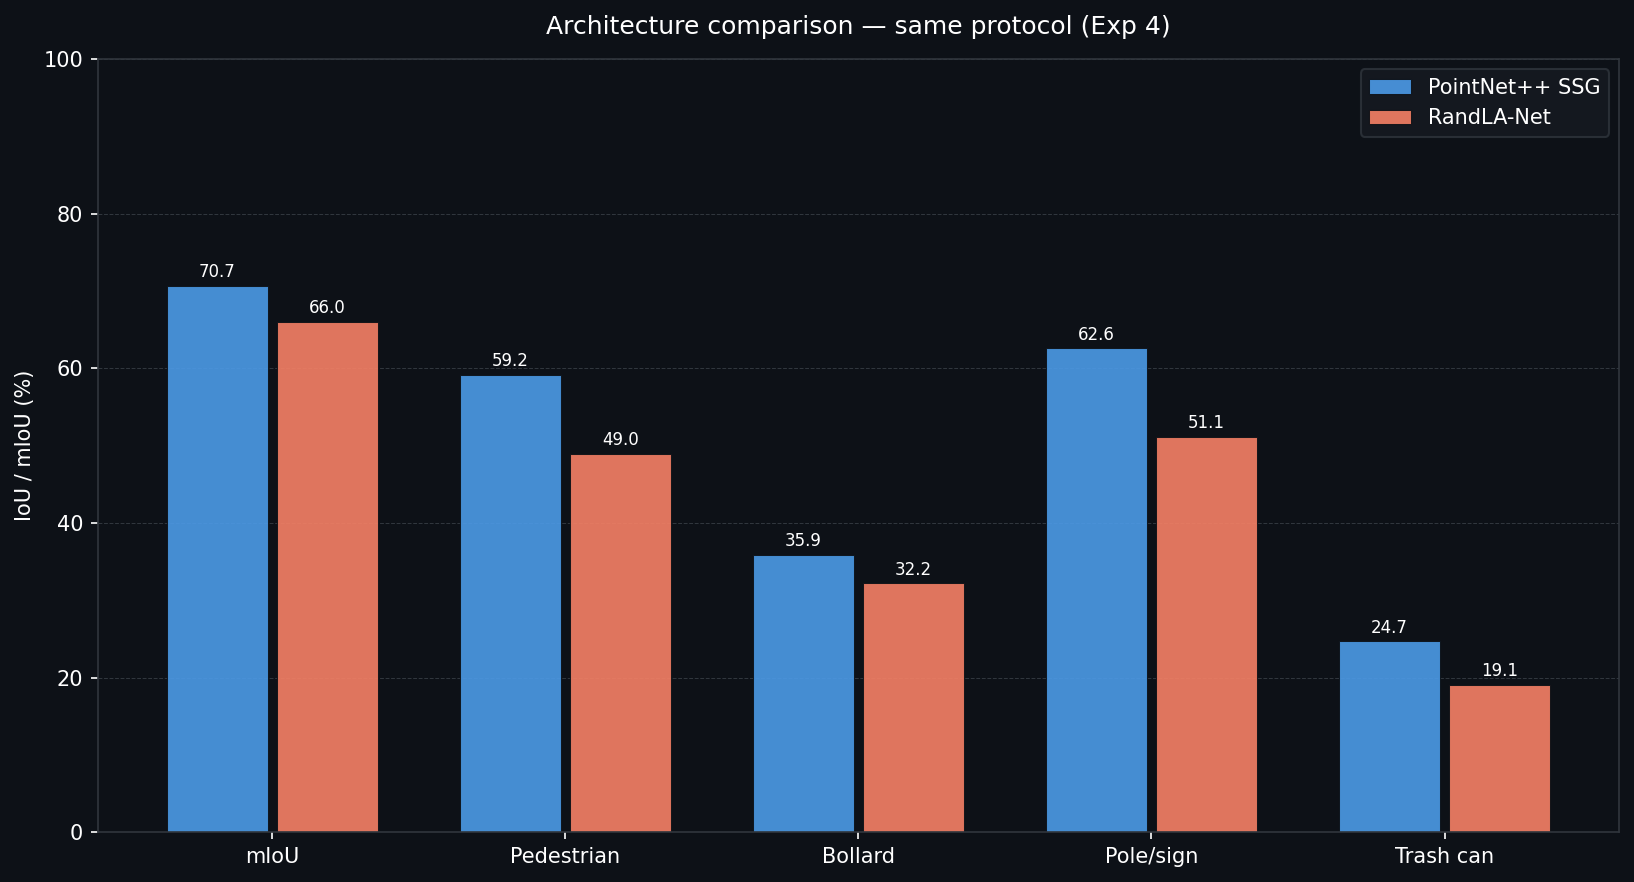
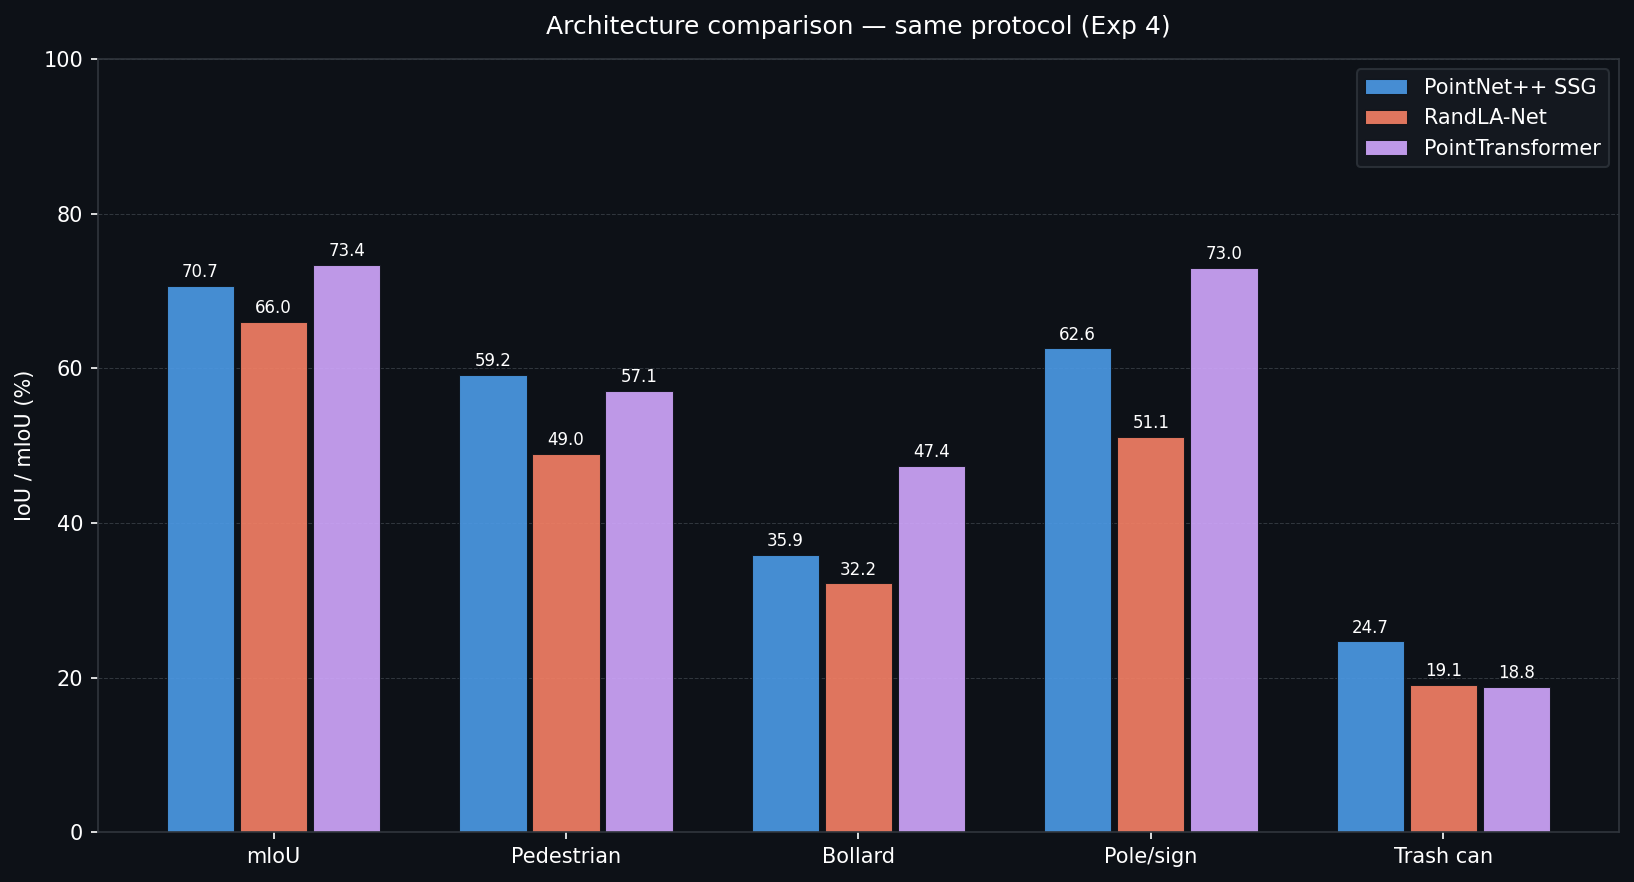
fix: add PointTransformer to default experiments in plot_architecture_comparison.py

diff --git a/scripts/plot_architecture_comparison.py b/scripts/plot_architecture_comparison.py
@@ -56,7 +56,7 @@ def parse_args():
     p = argparse.ArgumentParser()
     p.add_argument(
         "--experiments", nargs="+",
-        default=["exp4_pn2_wce_znorm", "exp4_randlanet_wce_znorm"],
+        default=["exp4_pn2_wce_znorm", "exp4_randlanet_wce_znorm", "exp4_pt_wce_znorm"],
         help="Experiment names to compare (must match the 'experiment' column in results.csv)",
     )
     p.add_argument("--out", type=str, default="architecture_comparison.png")